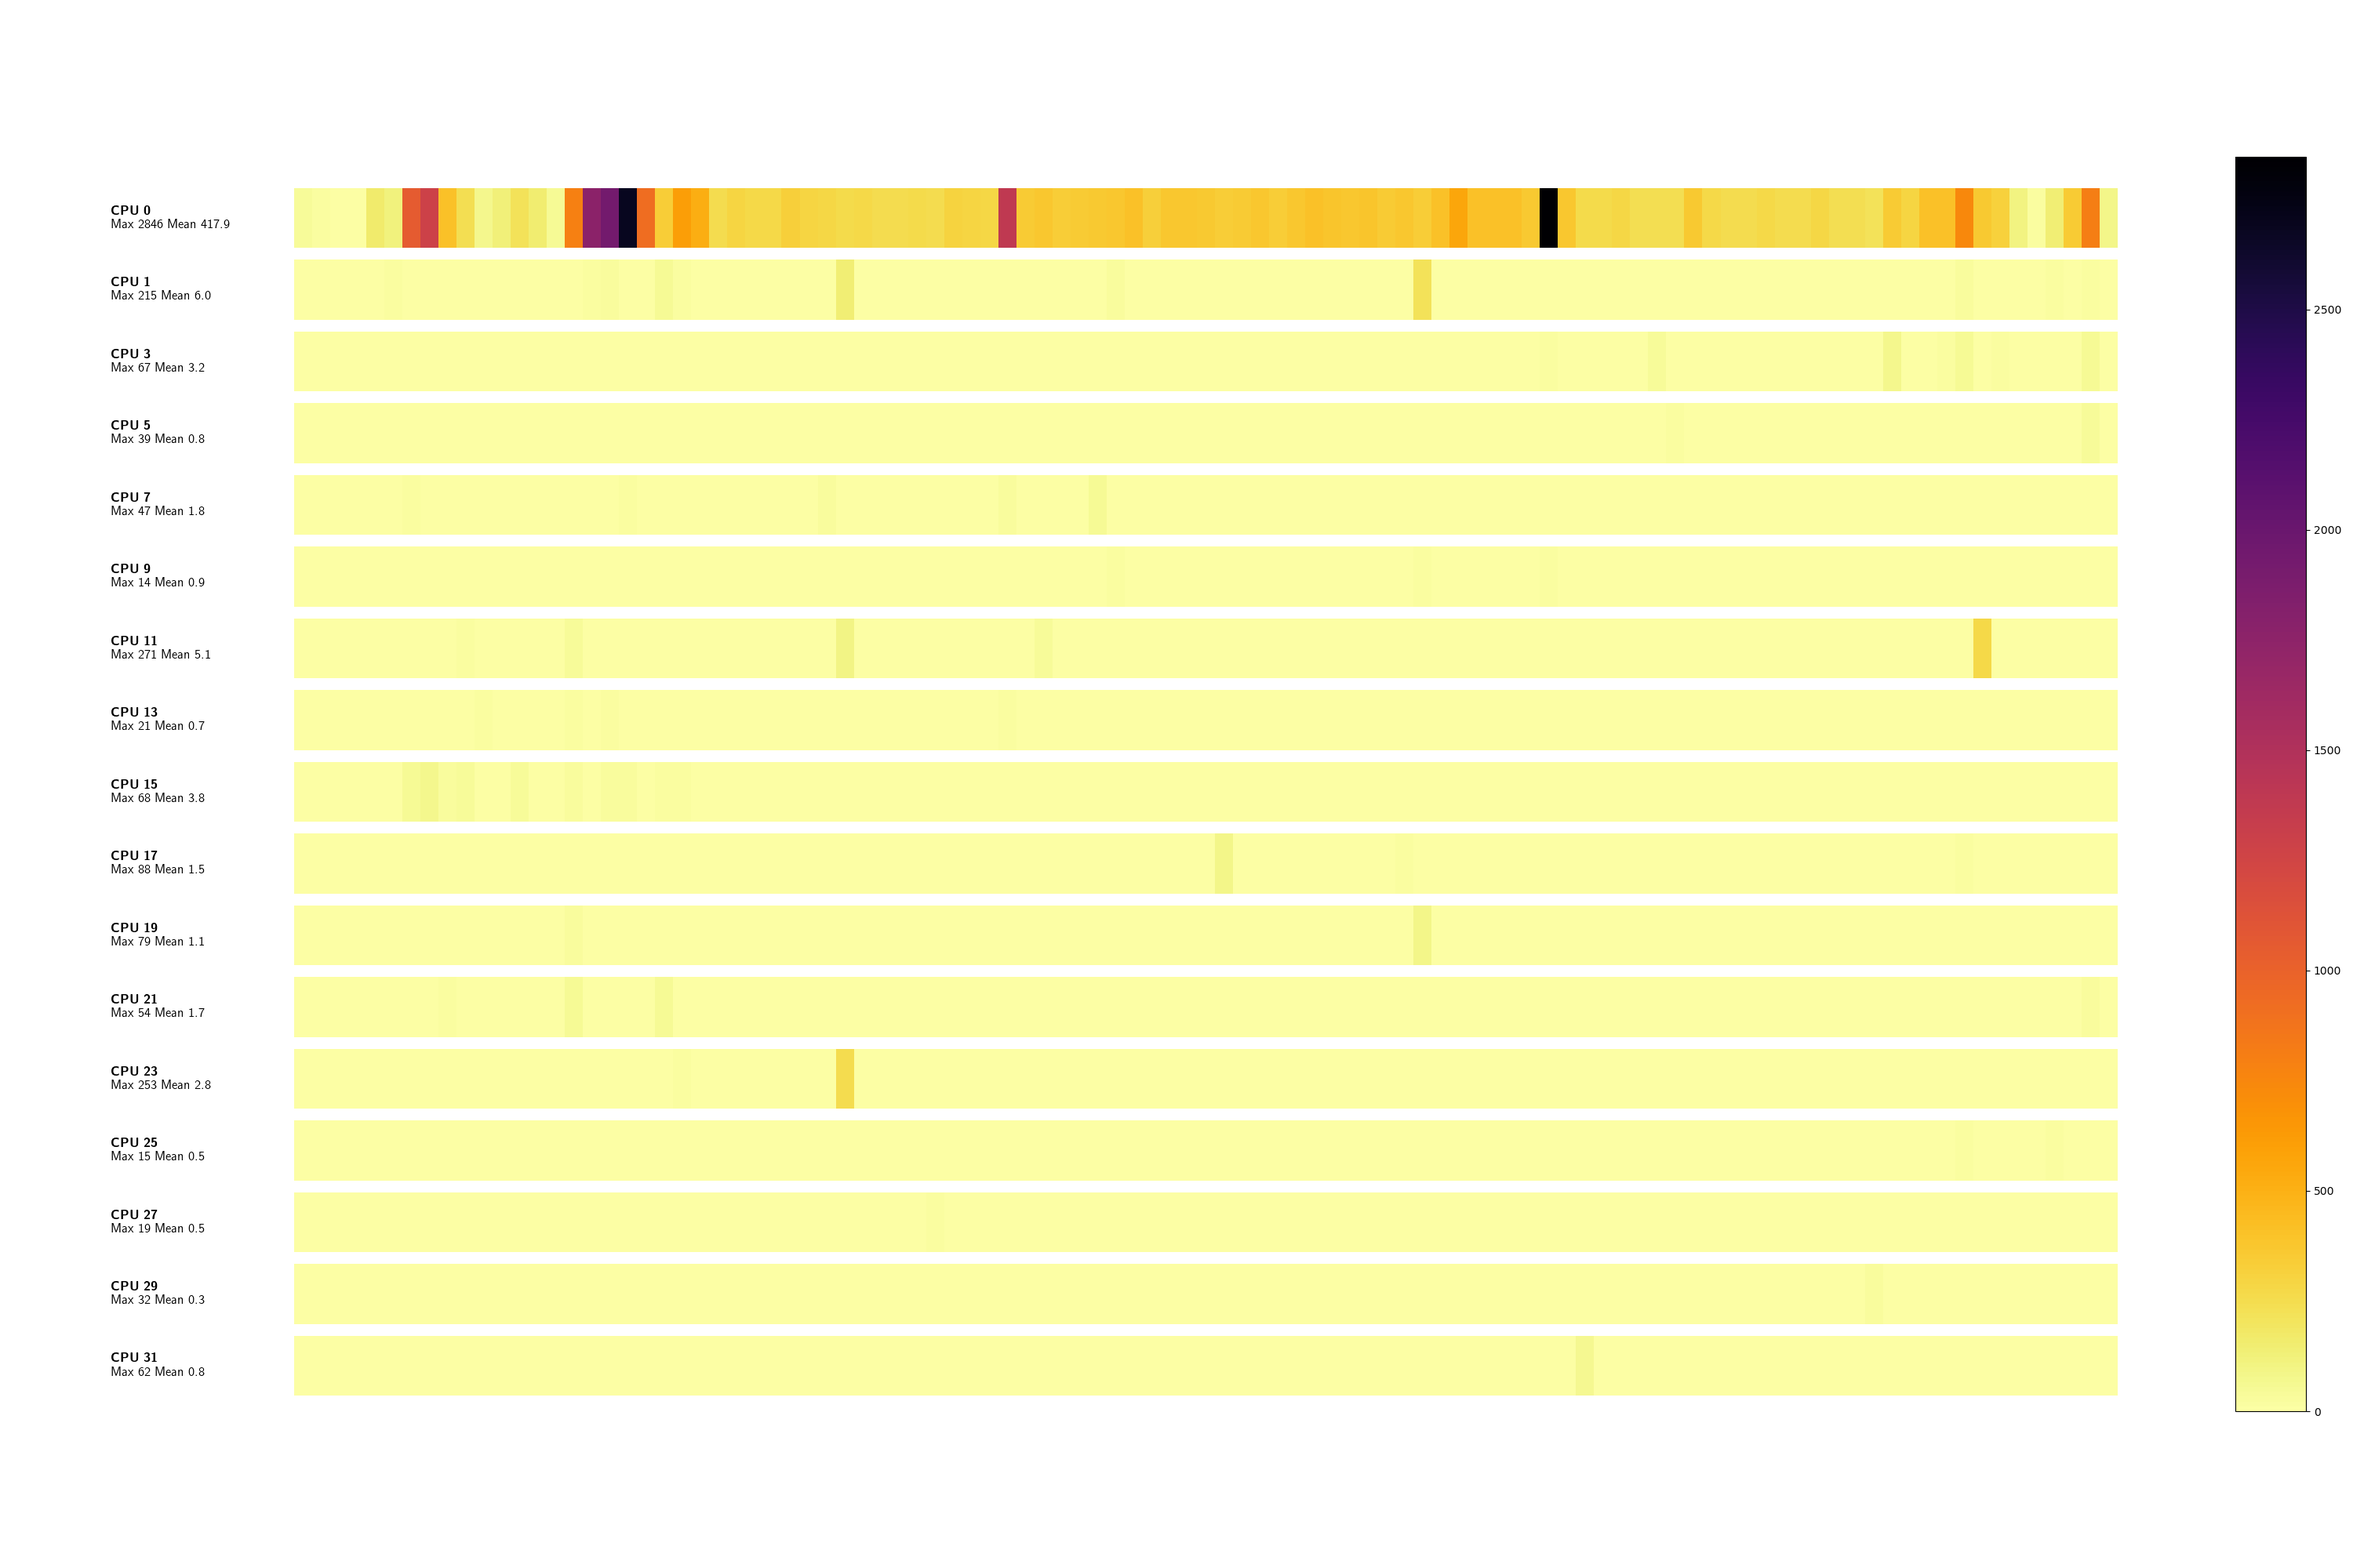
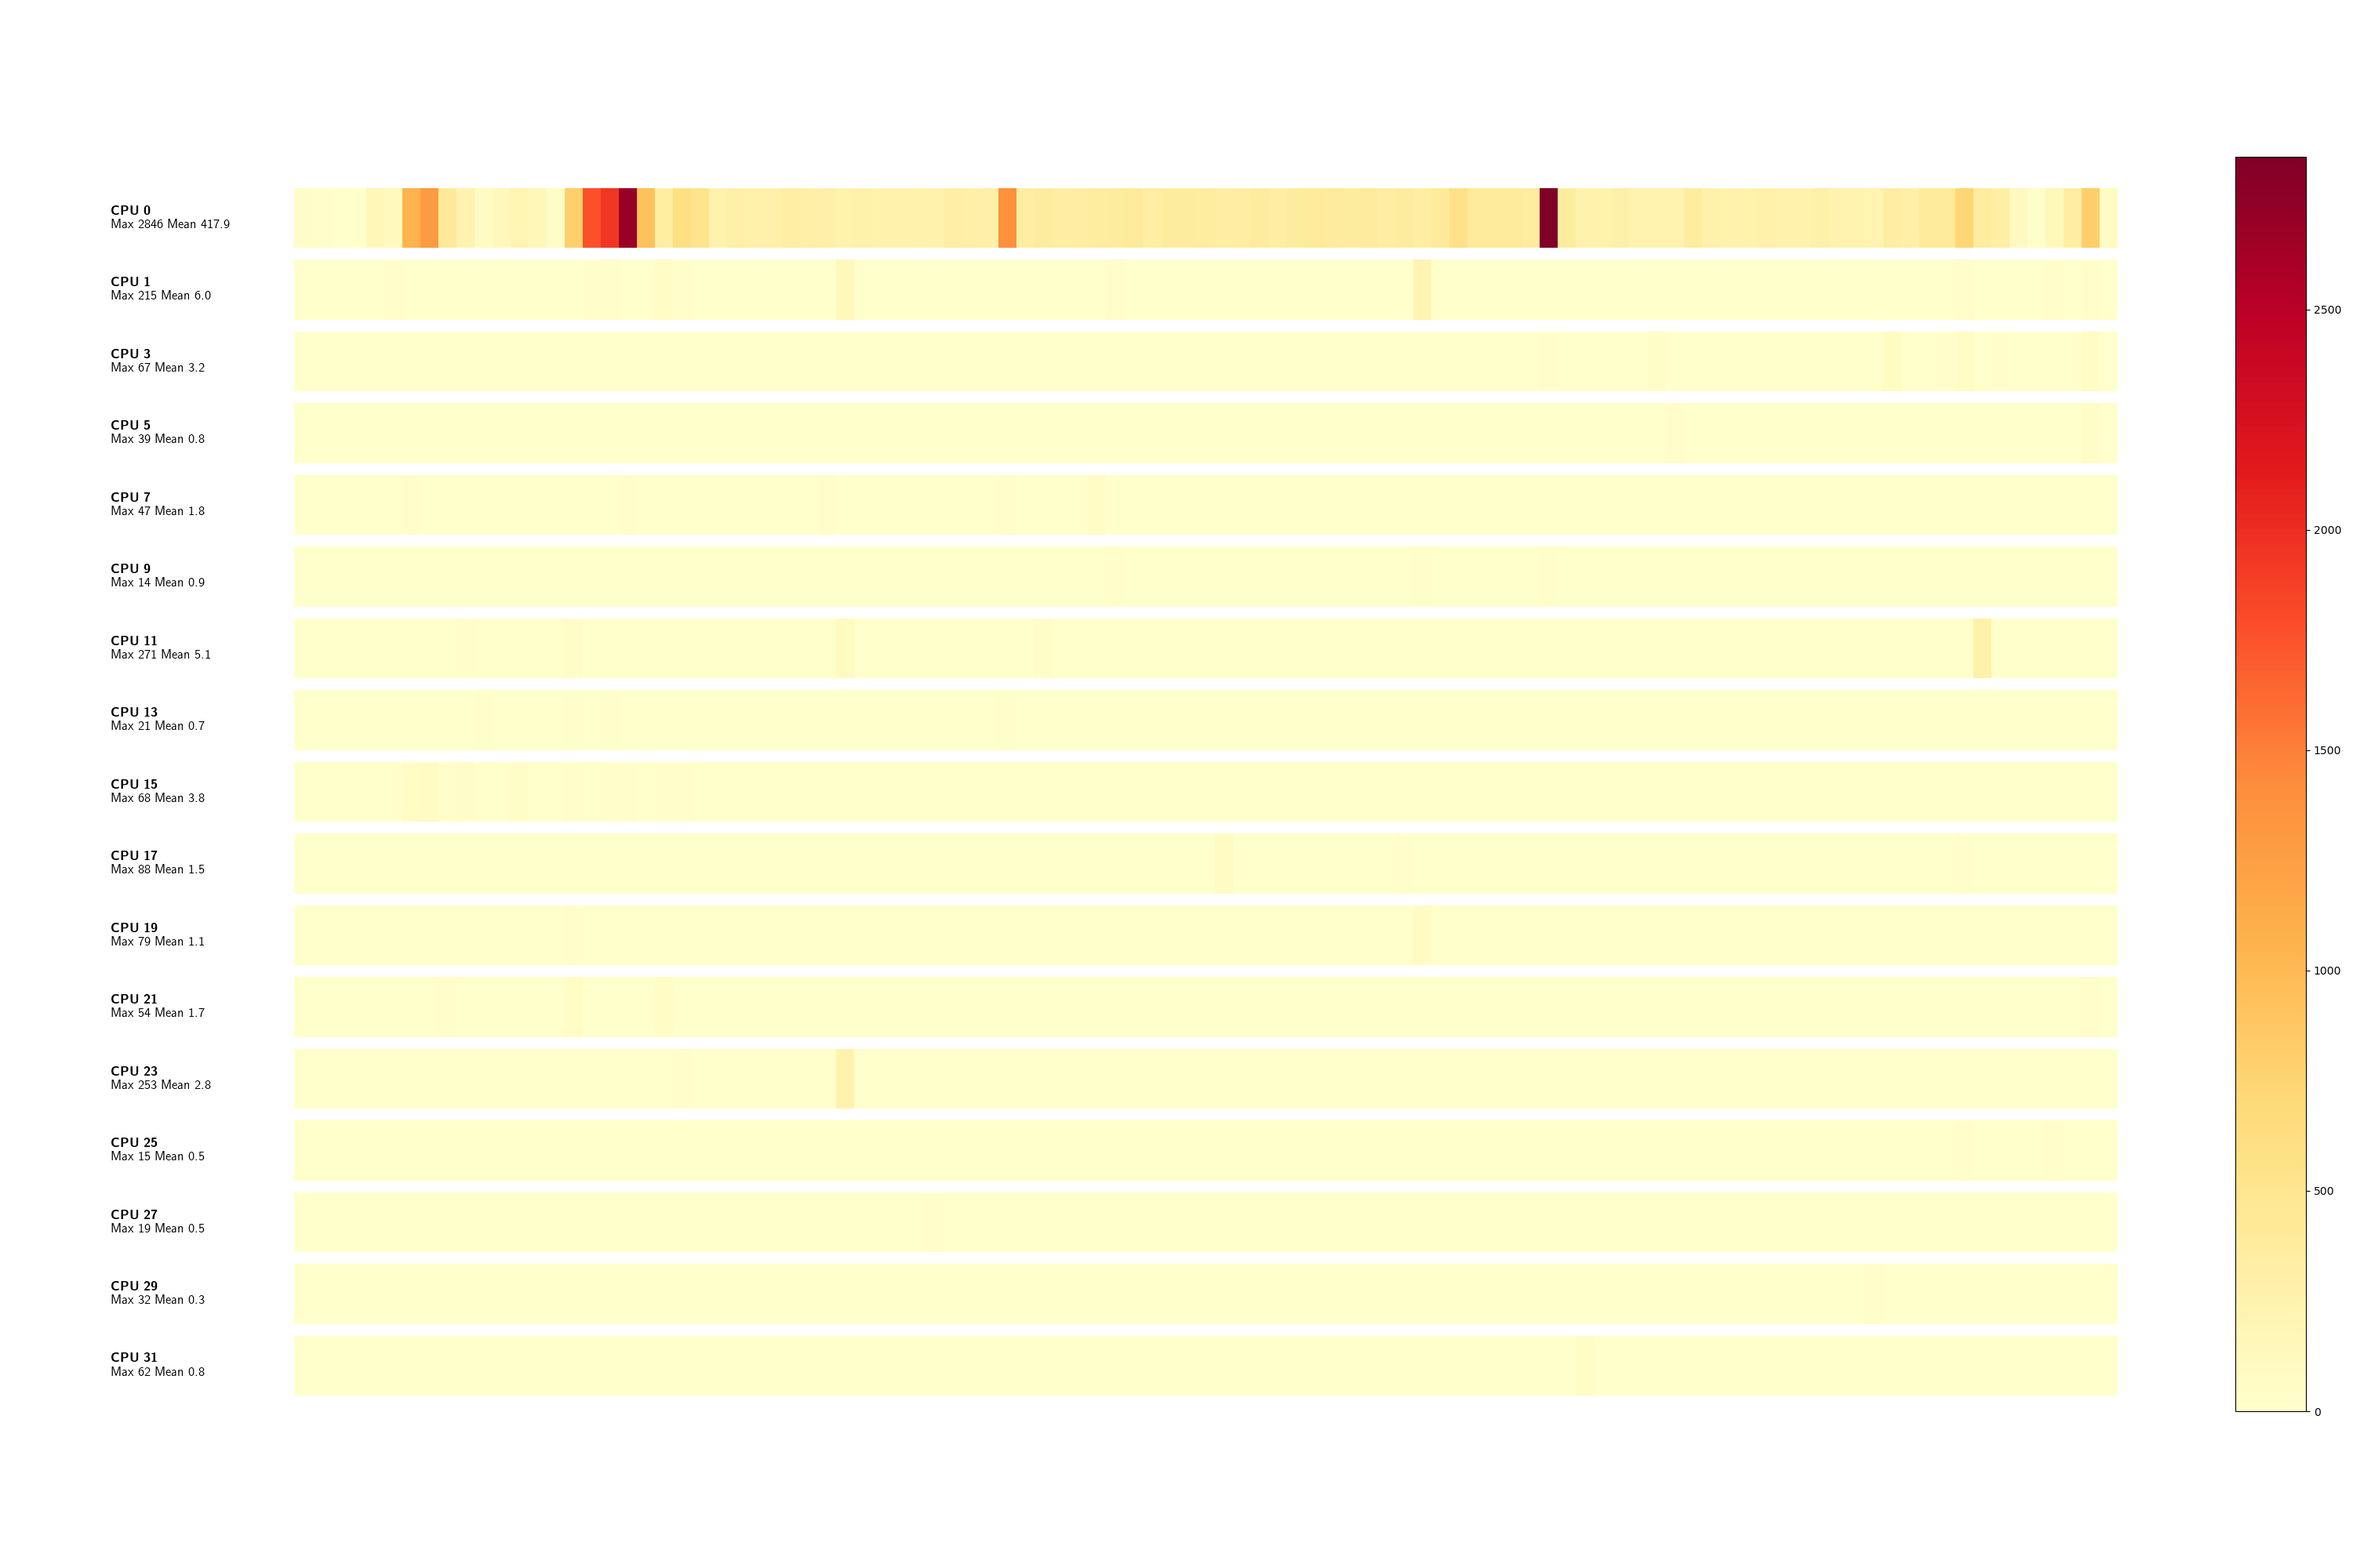
wakeups: IRQ differenz color palette

diff --git a/images/wakeups-timesequence-01/wakeups-timemap-irq.py b/images/wakeups-timesequence-01/wakeups-timemap-irq.py
@@ -21,7 +21,7 @@ for i, data in enumerate(data.iterrows()):
     row_mean = row.iloc[DATA_COLUMN:].mean()
     row_max = row.iloc[DATA_COLUMN:].max()
     reshaped_array = np.array(row.iloc[DATA_COLUMN:].tolist()).reshape((1, -1))
-    im = axs[i].imshow(reshaped_array, cmap=plt.cm.inferno_r, extent=[0, 10, 0, 10],
+    im = axs[i].imshow(reshaped_array, cmap=plt.cm.YlOrRd, extent=[0, 10, 0, 10],
                        aspect='auto', interpolation='none', vmin=0, vmax=max_value)
     # I use TeX here for boldface font generatiom, remove textbf and usetex=False
     # to get rid of it

diff --git a/images/wakeups-timesequence-01/wakeups-timemap-irq-cpu.py b/images/wakeups-timesequence-01/wakeups-timemap-irq-cpu.py
@@ -16,7 +16,7 @@ for i, data in enumerate(data.iterrows()):
     row_max_value = row.iloc[1:].max()
     row_mean_value = row.iloc[1:].mean()
     reshaped_array = np.array(row.iloc[1:]).reshape((1, -1))
-    im = axs[i].imshow(reshaped_array, cmap=plt.cm.inferno_r, extent=[0, 10, 0, 10],
+    im = axs[i].imshow(reshaped_array, cmap=plt.cm.YlOrRd, extent=[0, 10, 0, 10],
                        aspect='auto', interpolation='none', vmin=0, vmax=max_value)
     # I use TeX here for boldface font generatiom, remove textbf and usetex=False
     # to get rid of it
